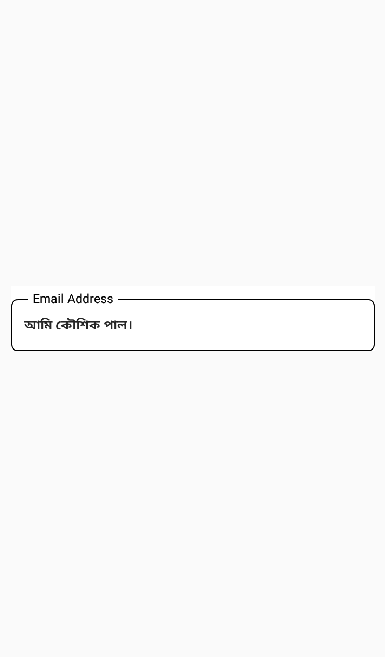
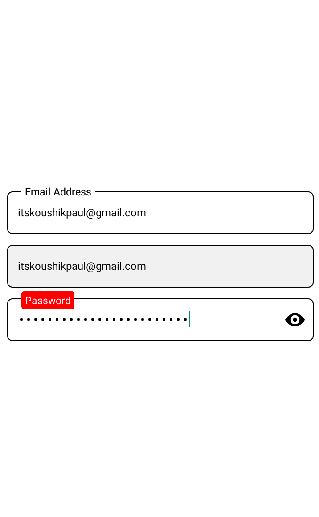
KP

diff --git a/kp-textinput-package/package/KPTextInput.js b/kp-textinput-package/package/KPTextInput.js
@@ -1,6 +1,5 @@
 import React, { useState } from 'react';
-import { Text, View, TextInput, Image, TouchableOpacity } from 'react-native';
-
+import { Text, View, TextInput, Image, Pressable } from 'react-native';
 import styles from "./KPTextInput.style.js";
 
 const KPTextInput = ({
@@ -11,7 +10,7 @@ const KPTextInput = ({
     isPassword = false,
     keyboardType = 'default',
     textboxStyle = {},
-    autoFocus = true,
+    autoFocus = false,
     multiline = false,
     numberOfLines = 1,
     editable = true,
@@ -19,6 +18,7 @@ const KPTextInput = ({
     allowFontScaling = true,
     placeholderTextColor = "gray",
     showPassword = isPassword ? true : false,
+    textAlignVertical = "auto",
     /////////////////////////////
     // Label Props Starts Here //
     /////////////////////////////
@@ -42,6 +42,7 @@ const KPTextInput = ({
                 keyboardType={keyboardType}
                 autoCapitalize="none"
                 autoCorrect={false}
+                textAlignVertical={multiline ? textAlignVertical : 'auto'}
                 multiline={multiline}
                 numberOfLines={numberOfLines}
                 editable={editable}
@@ -50,7 +51,7 @@ const KPTextInput = ({
                 placeholderTextColor={placeholderTextColor}
             />
             {showPassword ? (
-                <TouchableOpacity
+                <Pressable
                     style={styles.searchIcon}
                     onPress={() => setShow(!show)}>
                     {show ? (
@@ -58,7 +59,7 @@ const KPTextInput = ({
                     ) : (
                         <Image source={require("../images/invisible.png")} style={styles.iconStyle} />
                     )}
-                </TouchableOpacity>
+                </Pressable>
             ) : null}
             {isShowLabel && <Text
                 style={[styles.placeholderText, customlabelStyle, { backgroundColor: labelBackgroundColor, color: labelTextColor }]}>
@@ -69,4 +70,5 @@ const KPTextInput = ({
 }
 
 export default KPTextInput;
+
 

diff --git a/kp-textinput-package/README.md b/kp-textinput-package/README.md
@@ -11,16 +11,23 @@ Features
 
 
 ![Image1](https://raw.githubusercontent.com/Koushik26011997/KPTextInput/koushik/kp-textinput-package/images/image1.png)
-&nbsp;&nbsp;&nbsp;&nbsp;&nbsp;&nbsp;&nbsp;&nbsp;&nbsp;&nbsp;&nbsp;
-![Image2](https://raw.githubusercontent.com/Koushik26011997/KPTextInput/koushik/kp-textinput-package/images/image2.png)
 
 
-### Installation
-``npm i @iamkoushik/kp-textinput --save``
+## Getting started
+Install the library using either Yarn:
 
-or
 
-``yarn add npm i @iamkoushik/kp-textinput``
+```
+npm i @iamkoushik/kp-textinput
+```
+
+or yarn:
+
+
+```
+yarn add @iamkoushik/kp-textinput
+```
+
 
 ### Usage
 ```javascript
@@ -56,7 +63,10 @@ const [value, setValue] = useState('');
           />
 
           <KPTextInput
-            textboxStyle={{ height: 48, fontSize: 14, marginTop: 12 }}
+            labelBackgroundColor="red"
+            customlabelStyle={{ borderRadius: 3, padding: 2 }}
+            labelTextColor="#fff"
+            textboxStyle={{ height: 48, fontSize: 15, marginTop: 12, fontWeight: 'bold' }}
             placeholder="Password"
             textboxvalue={value}
             type={"email-address"}
@@ -65,7 +75,7 @@ const [value, setValue] = useState('');
             keyboardType={"default"}
             showPassword={true}
             labelplaceholder="Password"
-          />
+      />
     </View>
   )
 }
